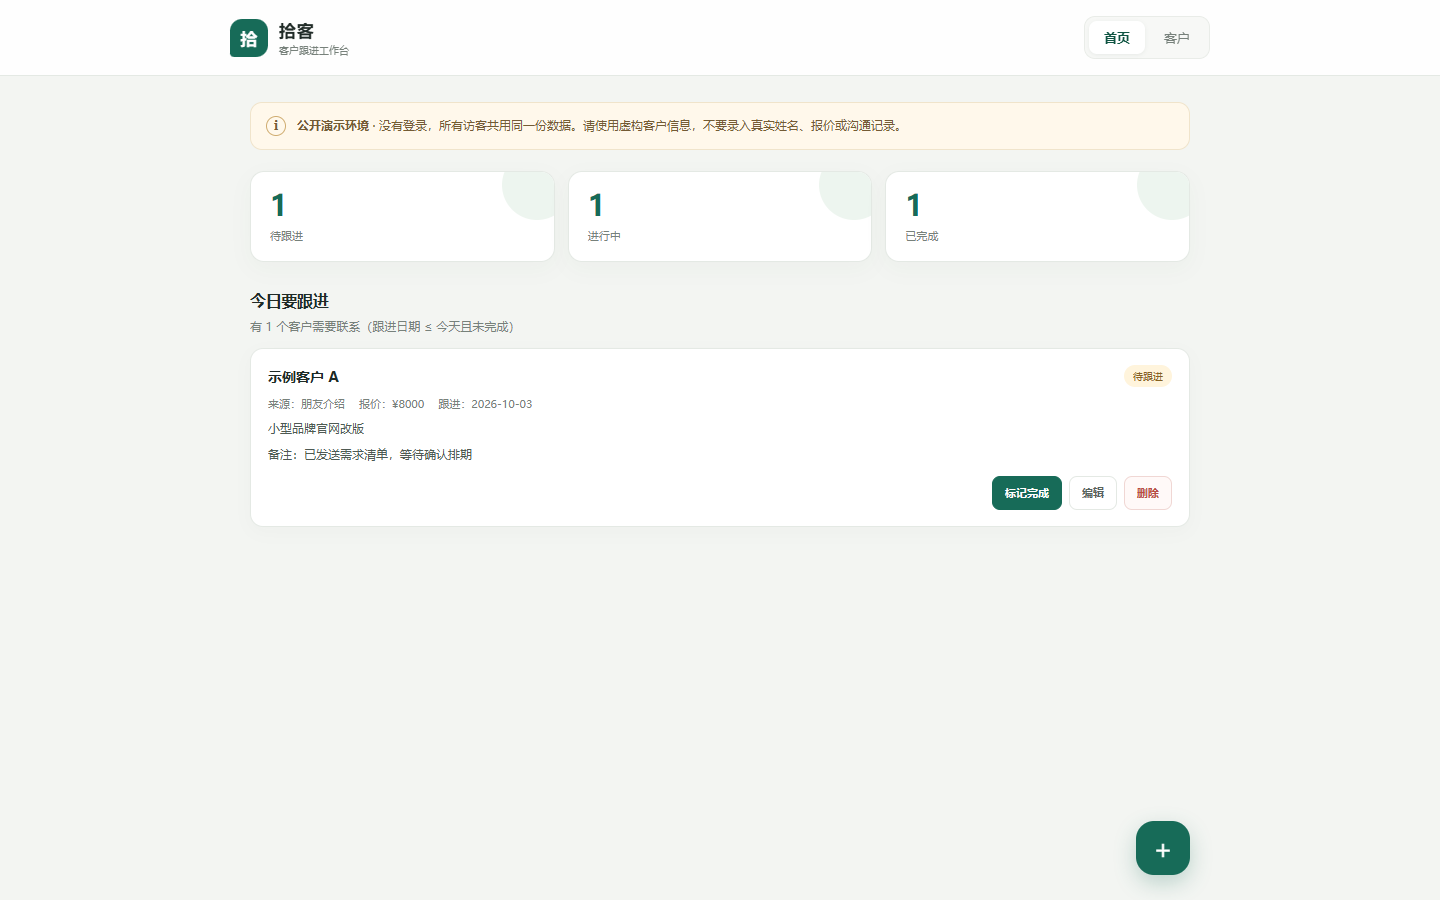
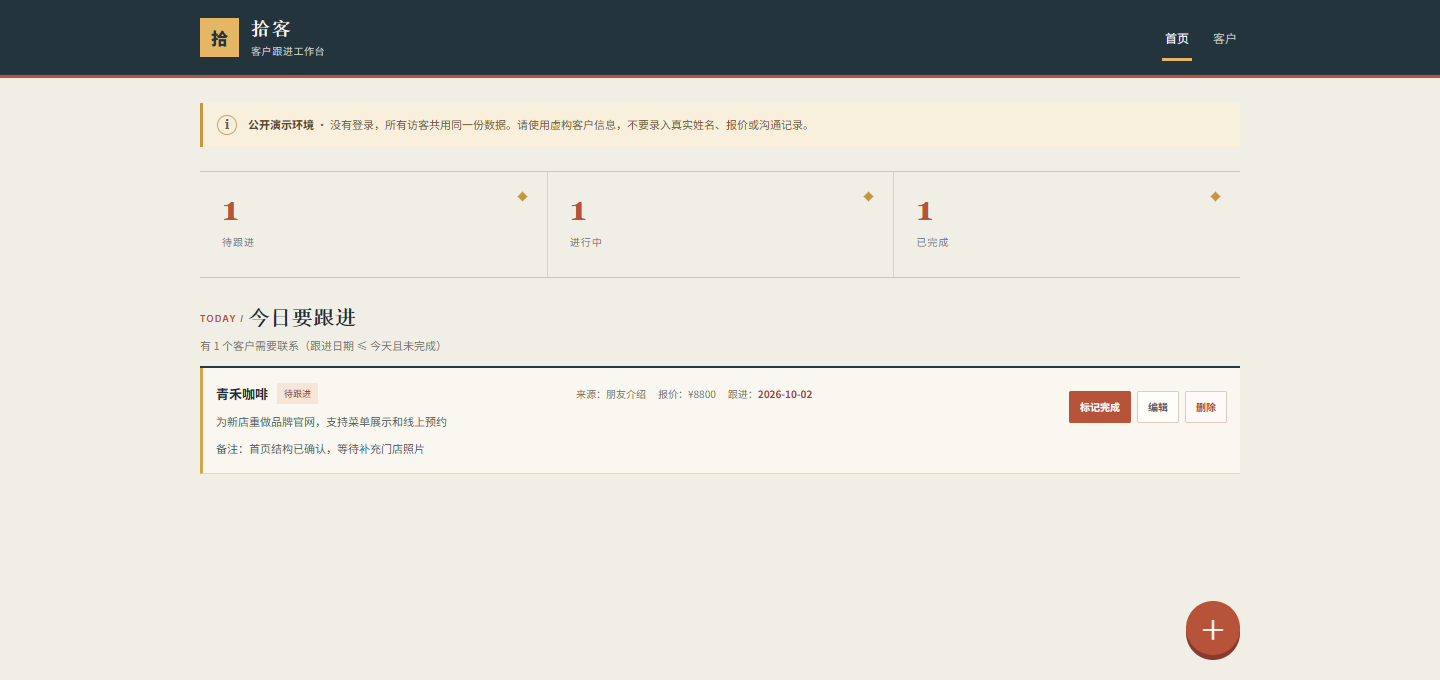
Give client tracker a distinct ledger UI

Changed region(s): [[0.0, 0.0, 1.0, 0.6794], [0.7812, 0.8647, 0.875, 0.9882]]

diff --git a/static/style.css b/static/style.css
@@ -1,105 +1,116 @@
 [hidden] { display: none !important; }
-
 :root {
-    --ink: #202b27;
-    --muted: #77817b;
-    --line: #e4e9e4;
-    --paper: #fff;
-    --canvas: #f3f5f2;
-    --green: #176b58;
-    --green-dark: #105543;
-    --green-pale: #edf5ef;
-    --danger: #b84d43;
-    font-family: -apple-system, BlinkMacSystemFont, "PingFang SC", "Microsoft YaHei", "Segoe UI", sans-serif;
+  --ink: #202c35;
+  --muted: #77776e;
+  --line: #dfd8ca;
+  --paper: #fffdf8;
+  --canvas: #f1eee6;
+  --rust: #b75338;
+  --rust-dark: #91422f;
+  --gold: #c79645;
+  --blue: #405b6b;
+  --danger: #a54338;
+  font-family: "Noto Sans SC", "PingFang SC", "Microsoft YaHei", sans-serif;
 }
-
 * { box-sizing: border-box; margin: 0; padding: 0; }
-body { min-height: 100vh; padding-bottom: 92px; background: var(--canvas); color: var(--ink); -webkit-font-smoothing: antialiased; }
+body { min-height: 100vh; padding-bottom: 92px; color: var(--ink); background: var(--canvas); -webkit-font-smoothing: antialiased; }
 button, input, select, textarea { font: inherit; }
-button:focus-visible, input:focus-visible, select:focus-visible, textarea:focus-visible { outline: 3px solid #9ac6b2; outline-offset: 2px; }
-
-.topbar { position: sticky; top: 0; z-index: 10; display: flex; align-items: center; justify-content: space-between; gap: 20px; min-height: 76px; padding: 10px max(22px, calc((100vw - 980px) / 2)); background: rgba(255,255,255,.93); border-bottom: 1px solid var(--line); backdrop-filter: blur(14px); }
-.brand-lockup { display: flex; align-items: center; gap: 11px; }
-.brand-mark { width: 38px; height: 38px; border-radius: 12px 12px 12px 4px; background: var(--green); display: grid; place-items: center; color: white; font-weight: 700; font-size: 17px; }
-.brand-lockup h1 { font-size: 17px; letter-spacing: .04em; }
-.brand-lockup p { color: var(--muted); font-size: 10px; margin-top: 2px; }
-.tabs { display: flex; align-items: center; gap: 4px; padding: 4px; border: 1px solid #e9ece8; background: #f7f8f6; border-radius: 11px; }
-.tab { border: 0; background: transparent; color: var(--muted); padding: 8px 15px; border-radius: 8px; font-size: 13px; cursor: pointer; transition: .18s ease; }
-.tab:hover { color: var(--green); }
-.tab.active { color: var(--green-dark); background: white; font-weight: 600; box-shadow: 0 1px 4px #20352b12; }
-
-main { width: min(940px, calc(100% - 36px)); margin: 26px auto 0; }
-.demo-notice { display: flex; align-items: flex-start; gap: 11px; padding: 13px 15px; margin-bottom: 21px; color: #735b34; background: #fff8eb; border: 1px solid #f0e4cb; border-radius: 12px; }
-.notice-icon { flex: none; width: 20px; height: 20px; display: grid; place-items: center; border: 1px solid #cfac70; border-radius: 50%; font: 600 12px Georgia, serif; }
-.demo-notice p { font-size: 12px; line-height: 1.65; }
-.demo-notice strong { font-weight: 700; }
-.view { max-width: 940px; margin: 0 auto; }
-.stats { display: grid; grid-template-columns: repeat(3, 1fr); gap: 13px; margin-bottom: 28px; }
-.stat-card { position: relative; padding: 18px 19px; overflow: hidden; background: var(--paper); border: 1px solid var(--line); border-radius: 14px; box-shadow: 0 7px 22px #24382d08; }
-.stat-card::after { content: ""; position: absolute; right: -18px; top: -22px; width: 70px; height: 70px; border-radius: 50%; background: var(--green-pale); }
-.stat-num { position: relative; z-index: 1; color: var(--green); font-size: 29px; line-height: 1; font-weight: 700; letter-spacing: -.04em; }
-.stat-label { position: relative; z-index: 1; margin-top: 9px; color: var(--muted); font-size: 11px; }
-h2 { font-size: 16px; letter-spacing: -.02em; }
+button:focus-visible, input:focus-visible, select:focus-visible, textarea:focus-visible { outline: 3px solid #ce9676; outline-offset: 2px; }
+.topbar {
+  position: sticky; top: 0; z-index: 10; display: flex; align-items: center; justify-content: space-between; gap: 20px;
+  min-height: 78px; padding: 10px max(22px, calc((100vw - 1040px) / 2)); color: #f9f5eb; background: #24343c;
+  border-bottom: 3px solid var(--rust);
+}
+.brand-lockup { display: flex; align-items: center; gap: 12px; }
+.brand-mark { width: 39px; height: 39px; display: grid; place-items: center; color: #24343c; background: #e5b765; font-size: 17px; font-weight: 800; }
+.brand-lockup h1 { font-family: "Songti SC", Georgia, serif; font-size: 18px; letter-spacing: .13em; }
+.brand-lockup p { margin-top: 3px; color: #c5cfcb; font-size: 10px; letter-spacing: .06em; }
+.tabs { display: flex; align-items: center; gap: 18px; height: 100%; }
+.tab { position: relative; min-height: 40px; padding: 0 3px; color: #bdc6c4; border: 0; background: transparent; font-size: 12px; cursor: pointer; }
+.tab:hover, .tab.active { color: #fff; }
+.tab.active::after { position: absolute; right: 0; bottom: -3px; left: 0; height: 3px; content: ""; background: #e5b765; }
+main { width: min(1040px, calc(100% - 40px)); margin: 25px auto 0; }
+.demo-notice { display: flex; align-items: flex-start; gap: 11px; padding: 12px 14px; margin-bottom: 24px; color: #715c3a; background: #f8f0dc; border-left: 3px solid var(--gold); }
+.notice-icon { flex: none; width: 20px; height: 20px; display: grid; place-items: center; border: 1px solid #c9a362; border-radius: 50%; font: 600 12px Georgia, serif; }
+.demo-notice p { font-size: 11px; line-height: 1.7; }
+.demo-notice strong { color: #554329; }
+.view { max-width: 1040px; margin: 0 auto; }
+.stats { display: grid; grid-template-columns: repeat(3, 1fr); margin: 0 0 28px; border-top: 1px solid #cfc6b6; border-bottom: 1px solid #cfc6b6; }
+.stat-card { position: relative; min-height: 105px; padding: 19px 22px 16px; background: transparent; }
+.stat-card + .stat-card { border-left: 1px solid #d9d1c2; }
+.stat-card::after { position: absolute; top: 21px; right: 21px; width: 7px; height: 7px; content: ""; background: var(--gold); transform: rotate(45deg); }
+.stat-num { color: var(--rust); font: 600 34px/1 Georgia, "Songti SC", serif; letter-spacing: -.05em; }
+.stat-label { margin-top: 9px; color: var(--muted); font-size: 10px; letter-spacing: .1em; }
+h2 { font: 600 21px "Songti SC", Georgia, serif; letter-spacing: .01em; }
 .view > h2 { margin: 0 0 6px; }
-.hint { color: var(--muted); font-size: 12px; line-height: 1.6; }
+.view > h2::before { content: "TODAY / "; color: var(--rust); font: 700 9px Arial, sans-serif; letter-spacing: .14em; vertical-align: 3px; }
+.hint { color: var(--muted); font-size: 11px; line-height: 1.65; }
 .view > .hint { margin-bottom: 12px; }
-.card-list { display: flex; flex-direction: column; gap: 10px; }
-.card { padding: 16px 17px; background: var(--paper); border: 1px solid var(--line); border-radius: 13px; box-shadow: 0 5px 18px #24382d06; }
-.card-top { display: flex; justify-content: space-between; align-items: center; gap: 12px; margin-bottom: 9px; }
-.card-name { font-size: 14px; font-weight: 650; overflow-wrap: anywhere; }
-.badge { flex: none; padding: 4px 9px; border-radius: 999px; font-size: 10px; white-space: nowrap; }
-.badge-pending { background: #fff4dc; color: #876220; }
-.badge-ongoing { background: #eaf2f7; color: #3a6179; }
-.badge-done { background: #e9f4eb; color: #36704b; }
-.card-meta { display: flex; flex-wrap: wrap; gap: 5px 14px; margin-bottom: 7px; color: var(--muted); font-size: 11px; }
-.meta-overdue { color: var(--danger); font-weight: 600; }
-.card-desc { margin-top: 5px; color: #4e5a53; font-size: 12px; line-height: 1.7; display: -webkit-box; -webkit-line-clamp: 3; -webkit-box-orient: vertical; overflow: hidden; overflow-wrap: anywhere; }
-.card-actions { display: flex; gap: 7px; justify-content: flex-end; margin-top: 12px; }
-.btn { min-height: 34px; padding: 0 12px; border: 1px solid var(--line); border-radius: 8px; background: white; color: #59645e; font-size: 11px; font-weight: 600; cursor: pointer; transition: .16s ease; }
-.btn:hover { border-color: #b8cec0; color: var(--green); }
-.btn-primary { border-color: var(--green); background: var(--green); color: white; }
-.btn-primary:hover { border-color: var(--green-dark); background: var(--green-dark); color: white; }
+.card-list { display: flex; flex-direction: column; border-top: 2px solid #263941; }
+.card {
+  display: grid; grid-template-columns: minmax(170px, .9fr) minmax(210px, 1.25fr) auto;
+  align-items: center; gap: 8px 18px; padding: 15px 13px; background: rgba(255,253,248,.56);
+  border: 0; border-bottom: 1px solid var(--line); border-radius: 0; box-shadow: none; border-left: 3px solid #d7a44a;
+}
+.card:nth-child(even) { background: rgba(255,253,248,.88); }
+.card-top { display: flex; align-items: center; gap: 9px; min-width: 0; }
+.card-name { overflow-wrap: anywhere; font-size: 13px; font-weight: 700; }
+.badge { flex: none; padding: 4px 7px; font-size: 9px; white-space: nowrap; }
+.badge-pending { color: #844127; background: #f7e5d8; }
+.badge-ongoing { color: #35576b; background: #e4edf0; }
+.badge-done { color: #47704f; background: #e5eddf; }
+.card-meta { display: flex; flex-wrap: wrap; gap: 5px 12px; color: var(--muted); font-size: 10px; }
+.meta-overdue { color: var(--danger); font-weight: 700; }
+.card-desc { grid-column: 1 / 3; color: #525d5d; font-size: 11px; line-height: 1.7; overflow-wrap: anywhere; }
+.card-actions { grid-column: 3; grid-row: 1 / span 2; display: flex; gap: 6px; justify-content: flex-end; }
+.btn { min-height: 32px; padding: 0 10px; color: #556168; border: 1px solid #d6cec0; border-radius: 2px; background: var(--paper); font-size: 10px; font-weight: 600; cursor: pointer; transition: .15s ease; }
+.btn:hover { border-color: var(--rust); color: var(--rust); }
+.btn-primary { color: white; border-color: var(--rust); background: var(--rust); }
+.btn-primary:hover { color: white; border-color: var(--rust-dark); background: var(--rust-dark); }
 .btn-ghost { background: transparent; }
-.btn-danger { border-color: #f0d7d4; background: #fff9f8; color: var(--danger); }
-.btn-danger:hover { border-color: #dfaaa3; color: #963e36; }
-
-.filters { display: grid; grid-template-columns: 1fr 1fr minmax(170px, 2fr) auto auto; gap: 8px; margin-bottom: 13px; }
-.filters input, .filters select { width: 100%; min-width: 0; height: 39px; padding: 0 11px; border: 1px solid var(--line); border-radius: 8px; background: white; color: var(--ink); font-size: 12px; }
-.filters input::placeholder { color: #a1aaa4; }
-
-.fab { position: fixed; z-index: 9; right: max(22px, calc((100vw - 940px) / 2)); bottom: 25px; width: 54px; height: 54px; border: 0; border-radius: 18px; background: var(--green); color: white; font-size: 27px; line-height: 1; box-shadow: 0 8px 22px #176b5840; cursor: pointer; transition: .16s ease; }
-.fab:hover { background: var(--green-dark); transform: translateY(-2px); }
-.modal-mask { position: fixed; inset: 0; z-index: 20; display: flex; align-items: center; justify-content: center; padding: 16px; background: #17261f70; backdrop-filter: blur(4px); }
-.modal { width: min(480px, 100%); max-height: min(90vh, 780px); overflow-y: auto; padding: 22px; border: 1px solid #ffffffa0; border-radius: 17px; background: white; box-shadow: 0 24px 70px #10241d30; }
-.modal h2 { margin-bottom: 16px; font-size: 18px; }
+.btn-danger { color: var(--danger); border-color: #e4c9c2; background: #fffaf7; }
+.btn-danger:hover { border-color: var(--danger); }
+.filters { display: grid; grid-template-columns: 1fr 1fr minmax(170px, 2fr) auto auto; gap: 7px; margin-bottom: 12px; }
+.filters input, .filters select { width: 100%; min-width: 0; height: 38px; padding: 0 10px; color: var(--ink); border: 1px solid #d8d0c2; border-radius: 2px; background: var(--paper); font-size: 11px; }
+.filters input::placeholder { color: #9c9a90; }
+.fab { position: fixed; z-index: 9; right: max(22px, calc((100vw - 1040px) / 2)); bottom: 25px; width: 54px; height: 54px; color: #fff8ed; border: 0; border-radius: 50%; background: var(--rust); font-size: 27px; line-height: 1; box-shadow: 0 5px 0 #863b2c; cursor: pointer; transition: .16s ease; }
+.fab:hover { background: var(--rust-dark); transform: translateY(-2px); }
+.modal-mask { position: fixed; inset: 0; z-index: 20; display: flex; align-items: center; justify-content: center; padding: 16px; background: #15252db8; backdrop-filter: blur(3px); }
+.modal { width: min(480px, 100%); max-height: min(90vh, 780px); overflow-y: auto; padding: 23px; border-top: 4px solid var(--rust); background: var(--paper); box-shadow: 0 20px 70px #101a2060; }
+.modal h2 { margin-bottom: 17px; font-size: 20px; }
 #client-form { display: flex; flex-direction: column; gap: 11px; }
-#client-form label { display: flex; flex-direction: column; gap: 5px; color: var(--muted); font-size: 11px; }
-#client-form input, #client-form select, #client-form textarea { width: 100%; min-height: 39px; padding: 9px 10px; border: 1px solid var(--line); border-radius: 8px; color: var(--ink); font-size: 14px; font-family: inherit; background: #fff; }
+#client-form label { display: flex; flex-direction: column; gap: 5px; color: var(--muted); font-size: 10px; }
+#client-form input, #client-form select, #client-form textarea { width: 100%; min-height: 39px; padding: 9px 10px; color: var(--ink); border: 1px solid #d8d0c2; border-radius: 2px; background: white; font-family: inherit; font-size: 13px; }
 #client-form textarea { resize: vertical; min-height: 64px; }
 .modal-actions { display: flex; gap: 9px; margin-top: 5px; }
 .modal-actions .btn { flex: 1; min-height: 42px; }
-
-@media (max-width: 700px) {
-    .topbar { min-height: 68px; padding: 9px 14px; }
-    main { width: calc(100% - 28px); margin-top: 17px; }
-    .demo-notice { margin-bottom: 16px; padding: 11px 12px; }
-    .demo-notice p { font-size: 11px; }
-    .stats { gap: 8px; margin-bottom: 23px; }
-    .stat-card { padding: 15px 12px; border-radius: 12px; }
-    .stat-num { font-size: 25px; }
-    .stat-label { font-size: 10px; }
-    .filters { grid-template-columns: 1fr 1fr; }
-    .filters input { grid-column: 1 / -1; }
-    .filters .btn { min-height: 38px; }
-    .fab { right: 17px; bottom: 17px; width: 52px; height: 52px; border-radius: 17px; }
+@media (max-width: 760px) {
+  .topbar { min-height: 69px; padding: 9px 16px; }
+  main { width: calc(100% - 28px); margin-top: 16px; }
+  .stats { margin-bottom: 23px; }
+  .stat-card { min-height: 91px; padding: 16px 12px; }
+  .stat-num { font-size: 28px; }
+  .card { grid-template-columns: minmax(0,1fr) auto; gap: 8px 12px; padding: 13px 11px; }
+  .card-top { grid-column: 1; }
+  .card-meta { grid-column: 1 / -1; grid-row: 2; }
+  .card-desc { grid-column: 1 / -1; grid-row: 3; }
+  .card-actions { grid-column: 2; grid-row: 1; }
+  .filters { grid-template-columns: 1fr 1fr; }
+  .filters input { grid-column: 1 / -1; }
+  .fab { right: 17px; bottom: 17px; width: 52px; height: 52px; }
 }
-
 @media (max-width: 390px) {
-    .brand-lockup { gap: 8px; }
-    .brand-mark { width: 34px; height: 34px; }
-    .brand-lockup h1 { font-size: 15px; }
-    .tab { padding: 8px 11px; font-size: 12px; }
-    .filters { grid-template-columns: 1fr; }
-    .filters input { grid-column: auto; }
-    .card { padding: 14px; }
+  .brand-lockup { gap: 8px; }
+  .brand-mark { width: 34px; height: 34px; }
+  .brand-lockup h1 { font-size: 15px; }
+  .tab { font-size: 11px; }
+  .demo-notice { padding: 10px; }
+  .stat-card { padding: 14px 8px; }
+  .stat-num { font-size: 25px; }
+  .stat-label { font-size: 9px; }
+  .filters { grid-template-columns: 1fr; }
+  .filters input { grid-column: auto; }
+  .card { grid-template-columns: 1fr; }
+  .card-top, .card-meta, .card-desc, .card-actions { grid-column: 1; grid-row: auto; }
+  .card-actions { justify-content: flex-start; }
 }

diff --git a/static/index.html b/static/index.html
@@ -4,7 +4,7 @@
     <meta charset="UTF-8">
     <!-- viewport 这行是"手机上能用"的关键：告诉手机浏览器按设备宽度渲染，别把桌面版缩小塞进屏幕 -->
     <meta name="viewport" content="width=device-width, initial-scale=1">
-    <meta name="theme-color" content="#f3f5f2">
+    <meta name="theme-color" content="#24343c">
     <title>拾客 · 客户跟进</title>
     <link rel="stylesheet" href="style.css">
 </head>
